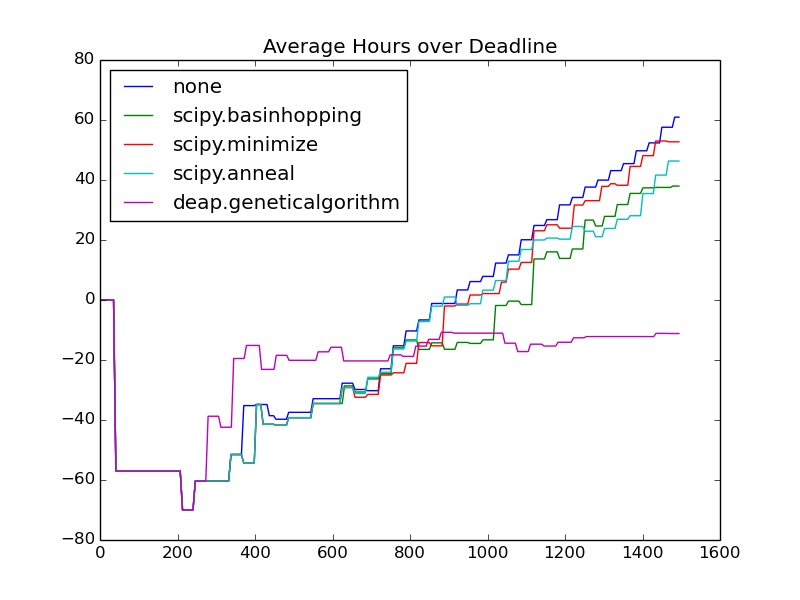
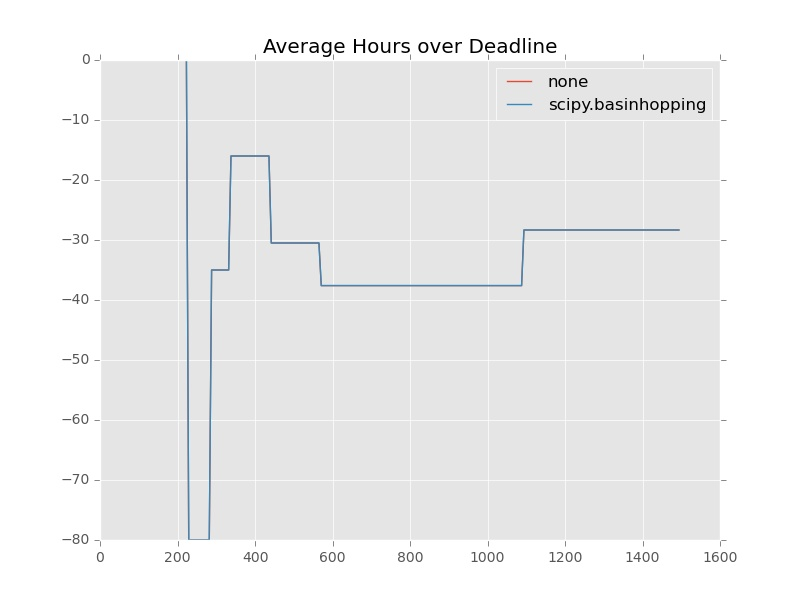
Minor changes

diff --git a/GridSim.py b/GridSim.py
@@ -1,5 +1,6 @@
 __author__ = ""
 
+import math
 import copy
 import numpy
 import pandas
@@ -12,23 +13,30 @@ from deap import base, creator, tools, algorithms
 class Simulator:
     def __init__(self, models, speeds, seed):
         """
-        This method creates a Simulator object
-        :param models: list of Model objects
-        :return: a Simulator object
+        This method initializes a new simulator object
+        :param models: a list of available models
+        :param speeds: a lists of available computer speeds
+        :param seed: the random number generator seed - for comparison reasons
+        :return: a new Simulator object
         """
-        # A list of all available models
+        self.seed = seed
         self.all_models = models
-        # Probability density function
+        self.computer_speeds = speeds
+
+        # T keeps track of current time in the Simulation
+        # pdf is the probability density function
         self.T = 0
         self.pdf = None
-        # This is a queue of Job objects
+
+        # Queues of Job objects
         self.completed = []
         self.scheduled = []
-        # A list of computer speeds
-        self.computer_speeds = speeds
+
+        # Keeps track of performance metrics
         self.not_completed = []
         self.time_over_budget = []
-        self.seed = seed
+
+        # A small value
         self.epsilon = 0.05
 
     def load_pdf(self, filename):
@@ -40,37 +48,63 @@ class Simulator:
         loaded_pdf = loaded_pdf.set_index("time")
         self.pdf = loaded_pdf.as_matrix()
 
-    def simulate_jobs(self, hours, method, print_status=True):
+    def run_simulation(self, total_simulation_hours, optimization_method, print_status=True, plot_time=True):
         """
-        Jobs are added if the random number generated is less than the probability of a job been added at that day and
-        hour where the day and hour is calculated using a hour inputted
-        :param hours: the number of hours to simulate jobs for
+        This method runs a simulation. Each simulation
+        1) Adds jobs to the job queue using the probability density function
+           - Each job has an associated model, number of monte carlo simulations
+           - Each job keeps track of if it is running or not. If it is, it can be updated
+           - Only one job can be running at any given time (simplifying assumption)
+        2) Keeps track of which jobs have completed
+           - When a job is completed i.e. all monte carlo simulations are done, it is removed from the scheduled queue
+             and moved into the completed queue. Fitness metrics are based on completed jobs
+        3) Optimizes the order of the scheduled queue, using optimized priorities
+           - This is done using the specified method. Methods supported include:
+             a. Sequential Least Squares Programming
+             b. The basinhopping algorithm
+             c. Simulated Annealing
+             d. Genetic Algorithms
+
+        :param total_simulation_hours: the number of hours to simulate
+        :param optimization_method: the optimization method to use
+        :param print_status: boolean to print out or not
+        :param plot_time: boolean to print jobs by time metrics
+        :return: list of lists of fitness metrics for each time step
         """
-        # Seed the random number generator
-        # numpy.random.seed(self.seed)
+        # Seed the random number generator - done to ensure comparability between methods
         random.seed(self.seed)
-        # Keeps track of the active job
-        num_jobs = 0
-        for t in range(hours):
-            self.T = t
+        jobs_added = 0
+
+        jobs_added_by_hour = numpy.zeros(24)
+        jobs_added_by_day = numpy.zeros(7)
+
+        # For each time step in the number of hours
+        for time_step in range(total_simulation_hours):
+            self.T = time_step
             # Calculate time and probability of adding a job
-            day, hour = t % 7, t % 24
-            probability = self.pdf[hour][day] * 5
+            hour = time_step % 24
+            days = math.floor(time_step / 24)
+            day = math.floor(time_step / 24) % 7
+            # Probability of adding a job at that time
+            probability = self.pdf[hour][day]
             # Determine if a job is added or not
             if random.random() < probability:
                 # Create a new Job object (randomly initialized)
-                j = Job(self.all_models, self.computer_speeds, num_jobs, t)
-                # Append to the Job schedule / queue
+                j = Job(self.all_models, self.computer_speeds, jobs_added, time_step)
                 self.scheduled.append(j)
-                num_jobs += 1
-                if method != "none" and len(self.scheduled) > 1:
-                    self.optimize(method)
+                # Update tracking variables
+                jobs_added += 1
+                jobs_added_by_day[day] += 1
+                jobs_added_by_hour[hour] += 1
+                # Check if we should optimize the new queue
+                if optimization_method != "none" and len(self.scheduled) > 1:
+                    self.optimize(optimization_method)
             self.add_fitnesses()
             # If there are jobs in the queue
             if len(self.scheduled) > 0:
                 # Update the active job status
                 self.scheduled[0].running = True
-                self.scheduled[0].update(t)
+                self.scheduled[0].update(time_step)
                 # If the job is completed set active to -1
                 if self.scheduled[0].done:
                     # Remove the job from the queue
@@ -79,9 +113,34 @@ class Simulator:
                     self.completed.append(active_job)
             # Print the job queue to console
             if print_status:
-                if t % 1000 == 0:
-                    print("\nTesting", method, "simulation", t)
+                if time_step % 1000 == 0:
+                    # Print out the simulation time
+                    print("Simulation time", "T =", time_step,
+                          "; Days passed =", days,
+                          "; Day of week =", day,
+                          "; Hour of day =", hour,
+                          "; Optimization Method =", optimization_method)
+                    print("\nTesting", optimization_method, "simulation", time_step)
                     self.print_job_queue()
+
+        # Plot the jobs added by day
+        # These are for comparison to the real data
+        plt.style.use('ggplot')
+        x_axis = numpy.arange(0, 7, 1)
+        plt.bar(x_axis, jobs_added_by_day)
+        plt.title("Jobs added by day")
+        plt.show()
+        plt.close()
+
+        # Plot the jobs added by hour
+        # These are for comparison to the real data
+        plt.style.use('ggplot')
+        x_axis = numpy.arange(0, 24, 1)
+        plt.bar(x_axis, jobs_added_by_hour)
+        plt.title("Jobs added by hour of day")
+        plt.show()
+        plt.close()
+
         return [self.not_completed, self.time_over_budget]
 
     def print_job_queue(self, verbose=True):
@@ -370,11 +429,16 @@ class Job:
         """
         self.done = True
         # Loop through the work units and check if they are done
-        for work_unit in self.work_units:
+        counter = 0
+        for i in range(len(self.work_units)):
             # Update the work unit
-            if not work_unit.done:
-                work_unit.update()
+            if not self.work_units[i].done:
+                self.work_units[i].update()
                 self.done = False
+                counter += 1
+            if counter == 6:
+                i = len(self.work_units)
+                break
         if self.done is True:
             self.end = t
             self.runtime = self.end - self.start
@@ -384,10 +448,14 @@ class Job:
         This method returns the expected runtime of the job
         :return:
         """
+        count_non_zero = 0
         expected_run_time = 0
         for wu in self.work_units:
-            expected_run_time = max(expected_run_time, wu.get_expected_time())
-        return expected_run_time
+            wu_run_time = wu.get_expected_time()
+            if wu_run_time > 0:
+                count_non_zero += 1
+            expected_run_time = max(expected_run_time, wu_run_time)
+        return expected_run_time * int((count_non_zero / 6))
 
     def get_objectives(self):
         return self.get_expected_runtime(), self.deadline
@@ -498,7 +566,7 @@ def run_experiments():
             speed = 2.0
         computers.append(speed)
 
-    methods = ["none", "scipy.basinhopping", "scipy.minimize", "scipy.anneal", "deap.geneticalgorithm"]
+    methods = ["none", "scipy.basinhopping"] #, "scipy.minimize", "scipy.anneal", "deap.geneticalgorithm"]
 
     name_one = "Images/Percentage-Not-Completed ("
     name_two = "Images/Hours-Over-Budget ("
@@ -511,7 +579,7 @@ def run_experiments():
         for opt_method in methods:
             simulator = Simulator(all_models, computers, seed)
             simulator.load_pdf("Data/JointProbTotal.csv")
-            result = simulator.simulate_jobs(1500, opt_method, print_status=True)
+            result = simulator.run_simulation(4500, opt_method, print_status=True)
             not_completed_results.append(result[0])
             hours_over_results.append(result[1])
 

diff --git a/Logs/GridLogExtractor.py b/Logs/GridLogExtractor.py
@@ -1,0 +1,79 @@
+__author__ = 'stuart'
+
+import os
+import numpy
+import pandas
+from os import listdir
+from os.path import isfile, join
+
+
+class Extractor:
+    def __init__(self, log_file_paths):
+        self.log_file_paths = log_file_paths
+        self.submitted_jobs = []
+
+    def extract_jobs(self):
+        count = 0
+        for log_file in self.log_file_paths:
+            num_lines = sum(1 for line in open(log_file))
+            prev, prev2, prev3, prev4 = "", "", "", ""
+            with open(log_file) as log:
+                line = log.readline()
+                for i in range(num_lines):
+                    if "Evaluating CAKE string" in line:
+                        out = line
+                        while "TRACE" not in line:
+                            line = log.readline()
+                            if "TRACE" not in line:
+                                out += line
+                        self.submitted_jobs.append(out)
+                        out = out.replace('\n', ' ').replace('\t', ' ').replace(' ', '.')
+                        time = out[0:19]
+                        mc_loc = out.find('mc.') + len('mc.')
+                        mc_char = out[mc_loc]
+                        mc_sims = ""
+                        while mc_char != ".":
+                            mc_loc += 1
+                            mc_sims += mc_char
+                            mc_char = out[mc_loc]
+                        if "(price...(" in out:
+                            model_loc = out.find("(price...(") + len("(price...(")
+                        else:
+                            model_loc = out.find("(cashflow...(") + len("(cashflow...(")
+                        model_char = out[model_loc]
+                        model = ""
+                        while model_char != '.':
+                            model_loc += 1
+                            model += model_char
+                            model_char = out[model_loc]
+                        time_data = time.split('T')
+                        date = time_data[0]
+                        time = time_data[1]
+                        date_data = date.split('-')
+                        time_data = time.split(':')
+                        month = date_data[1]
+                        day = date_data[2]
+                        hour = time_data[0]
+                        if model != "assets" and model != "annuity" and "T" not in mc_sims:
+                            us = model + mc_sims
+                            string_out = str(count) + "," + month + "," + day + "," + hour + "," + model + "," + mc_sims
+                            # print(unique_string, prev_out)
+                            if us != prev and us != prev2 and us != prev3 and us != prev4:
+                                print(string_out)
+                                prev4 = prev3
+                                prev3 = prev2
+                                prev2 = prev
+                                prev = us
+                                count += 1
+                    line = log.readline()
+
+
+if __name__ == '__main__':
+    log_files = []
+    directories = ["/home/stuart/Documents/GitHub/Logs/OMRSRV015"]
+    for directory in directories:
+        dir_log_files = [join(directory, f) for f in listdir(directory) if isfile(join(directory, f))]
+        for log_file in dir_log_files:
+            log_files.append(log_file)
+    extractor = Extractor(log_files)
+    extractor.extract_jobs()

diff --git a/Logs/grid logs 2.1.py b/Logs/grid logs 2.1.py
@@ -7,6 +7,7 @@ new_split_file = "C:\Users\Tasmyn\Documents\BPJ\Grid Logs\\log-30-CS3 split.csv"
 
 new_file = open(new_split_file, 'w+')
 
+
 log = open(csv_file, "rb")
 
 cnt = 0
